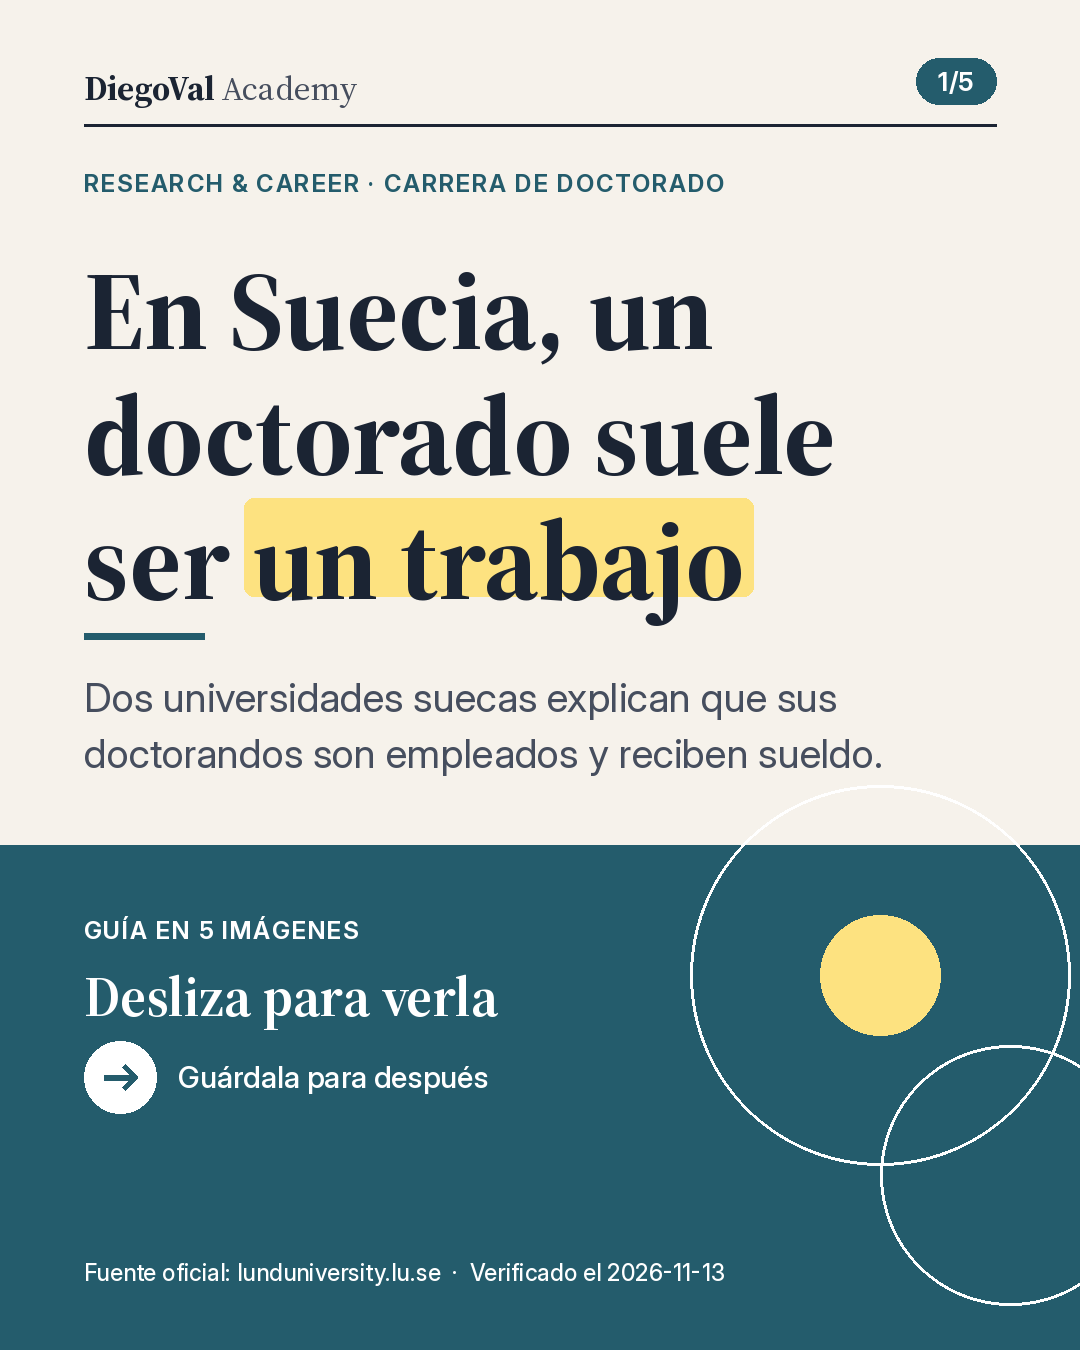
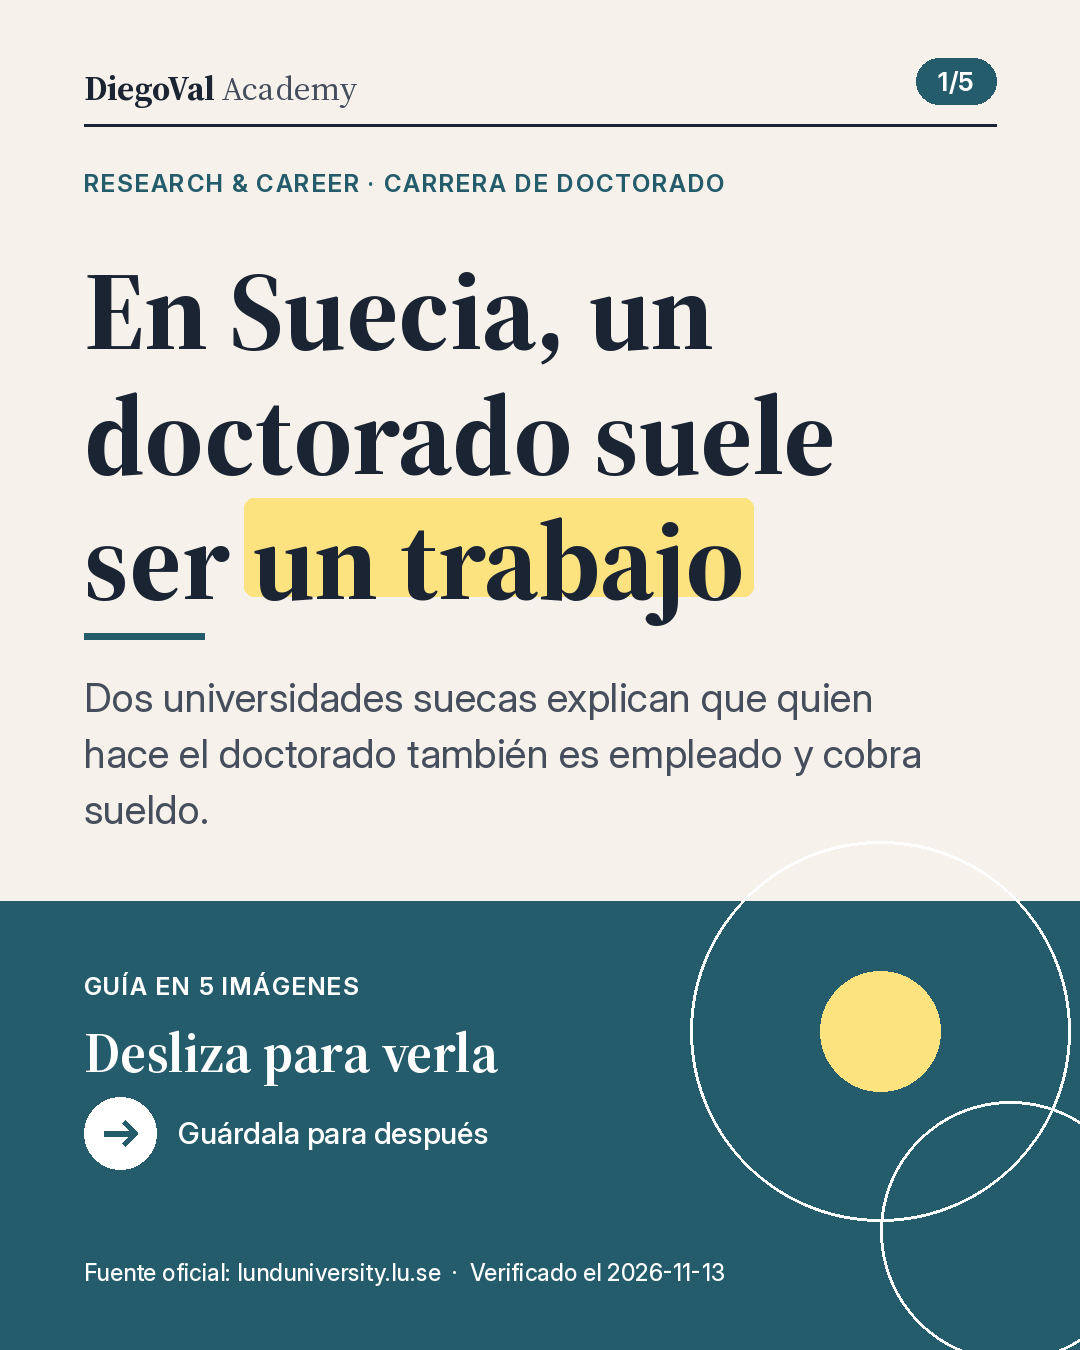
2026-11-13_viernes_doctorado-contrato-suecia: textos más sencillos tras 1.ª verificación
Claude-Session: https://claude.ai/code/session_01HRCw36T8iQCmgJ7ZU8EQuH

diff --git a/posts/2026-11-13_viernes_doctorado-contrato-suecia/sources.md b/posts/2026-11-13_viernes_doctorado-contrato-suecia/sources.md
@@ -4,8 +4,8 @@ Categoría: carrera_phd (última categoría del viernes anterior: tendencia_euro
 | URL | Campo | Cita literal |
 |---|---|---|
 | https://www.lunduniversity.lu.se/about-university/work-us/careers-lund-university/employment-doctoral-student | Empleo | "As a doctoral student, you are both an employee and a student." / "you will be employed by the University and formally admitted to doctoral studies with salary and benefits." (actualizada 29 Aug 2026) |
-| mismo | Beneficios | "Paid vacation…"; "Healthcare and occupational health services…"; "Insurance and pensions: You are covered by staff insurance and pension contributions" |
-| https://www.lunduniversity.lu.se/international-admissions/phd-studies | Beca y solicitud | "you will in most cases be offered employment as a doctoral student as study funding."; "If the doctoral studies are financed by a scholarship, Lund University shall offer…" (mayormente en cooperación internacional); "To apply for a doctoral position, you must create an account in the recruitment system Varbi."; sin matrícula (actualizada 28 Apr 2026) |
+| mismo | Beneficios | "entitled to paid holiday each year"; "public healthcare and occupational health support"; "staff insurance and pension contributions" |
+| https://www.lunduniversity.lu.se/international-admissions/phd-studies | Beca y solicitud | "you will in most cases be offered employment as a doctoral student as study funding."; "If the doctoral studies are financed by a scholarship, Lund University shall offer…" ; "Scholarship as a means of financing studies are mainly used in international co-operation."; "To apply for a doctoral position, you must create an account in the recruitment system Varbi."; sin matrícula (actualizada 28 Apr 2026) |
 | https://su.se/english/education/top-reasons-to-choose-su/our-courses-and-programmes/phd-studies-at-stockholm-university-1.690164 | Estocolmo | "Doctoral students are employees at SU and receive salary and other standard benefits of employment."; "There are no tuition fees for doctoral education in Sweden"; "PhD positions are posted alongside other jobs on our website and applications are made for specific positions."; "usually an opportunity to apply for doctoral studies both in the autumn and spring." (actualizada 2026-07-03) |
 
 Notas: no se citan cifras de sueldo (varían y las fuentes consultadas son secundarias). El texto afirma solo lo que dicen estas dos universidades; cada universidad decide sus reglas. «Mayormente cooperación internacional» es la descripción de Lund sobre las becas.

diff --git a/posts/2026-11-13_viernes_doctorado-contrato-suecia/caption.md b/posts/2026-11-13_viernes_doctorado-contrato-suecia/caption.md
@@ -1,16 +1,16 @@
-¿Sabías que en Suecia un doctorado suele ser un trabajo con sueldo? 🇸🇪
+¿Sabías que en Suecia un doctorado suele ser un trabajo con sueldo?
 
 En corto:
-• Qué es: un doctorado son años de investigación sobre un tema, que terminan en una tesis. En Suecia, la Universidad de Lund dice: «eres a la vez empleado y estudiante».
-• Qué ofrece: sueldo y beneficios de empleado, como vacaciones pagadas, atención médica y pensión. La Universidad de Estocolmo explica que no hay matrícula para el doctorado en Suecia.
-• Cómo se pide: cada plaza se publica junto a otros empleos y se solicita una plaza concreta.
+• Qué es: un doctorado son años de investigación sobre un tema, que terminan en una tesis (un trabajo largo con tus resultados). La Universidad de Lund (Suecia) dice: «eres a la vez empleado y estudiante».
+• Qué ofrece: sueldo y beneficios (vacaciones pagadas, atención médica, pensión). La Universidad de Estocolmo explica que no hay matrícula (lo que se paga por estudiar) en el doctorado.
+• Cómo se pide: cada plaza se publica junto a otros empleos y se pide una plaza concreta.
 
-Lo que pocos explican: algunos doctorados se pagan con una beca (scholarship) y no con un contrato. Lund lo usa, en especial, en proyectos con otros países. Mira cuál es y pregunta qué cubre antes de aceptar.
+Lo que pocos explican: algunos doctorados son con beca (scholarship), no con contrato. Lund las usa en proyectos con otros países. Pregunta si incluye sueldo, seguro y vacaciones.
 
 Cómo empezar:
 1. Abre la web de una universidad sueca y busca sus plazas de doctorado.
-2. En la oferta, busca si dice «employment» (contrato) o «scholarship» (beca).
-3. Anota el tema, el plazo y los documentos que piden.
+2. En la oferta, mira si dice «employment» (contrato) o «scholarship» (beca).
+3. Anota el tema y el plazo.
 
 Lund: https://www.lunduniversity.lu.se/about-university/work-us/careers-lund-university/employment-doctoral-student
 Estocolmo: https://su.se/english/education/top-reasons-to-choose-su/our-courses-and-programmes/phd-studies-at-stockholm-university-1.690164

diff --git a/posts/2026-11-13_viernes_doctorado-contrato-suecia/validation.md b/posts/2026-11-13_viernes_doctorado-contrato-suecia/validation.md
@@ -1,6 +1,6 @@
 # Validación — 2026-11-13_viernes_doctorado-contrato-suecia
 
-Ejecutado: 2026-11-13T07:08:46+01:00
+Ejecutado: 2026-11-13T07:10:06+01:00
 Decisión: **BLOQUEADA: no publicar**
 
 | Estado | Comprobación | Detalle |
@@ -10,7 +10,7 @@ Decisión: **BLOQUEADA: no publicar**
 | PASS | Imagen | 1080x1350 PNG, 1 archivo (+5 diapositivas de carrusel, ignoradas) |
 | PASS | Canal Buffer | DiegoVal Academy (6ae0bdf22f1f5ed648eb92f9) |
 | PASS | Verificación del día | 2026-11-13 |
-| PASS | Longitud del texto | 1282/1300 caracteres |
+| PASS | Longitud del texto | 1256/1300 caracteres |
 | PASS | Fecha visible en el texto | Verificado el: 2026-11-13 |
 | PASS | Marcadores pendientes | ninguno |
 | PASS | Enlaces documentados en sources.md | 2 enlaces |

diff --git a/posts/2026-11-13_viernes_doctorado-contrato-suecia/caption_instagram.md b/posts/2026-11-13_viernes_doctorado-contrato-suecia/caption_instagram.md
@@ -1,8 +1,8 @@
 ¿Sabías que en Suecia un doctorado suele ser un trabajo con sueldo? 🇸🇪
 
-✅ Lund: «eres a la vez empleado y estudiante»
-✅ Estocolmo: no hay matrícula para el doctorado en Suecia
-✅ Mira si la plaza es con contrato o con beca y qué cubre
+✅ Universidad de Lund (Suecia): «eres a la vez empleado y estudiante»
+✅ Universidad de Estocolmo: no hay matrícula (lo que se paga por estudiar)
+✅ Mira si la plaza es con contrato o con beca, y si incluye sueldo, seguro y vacaciones
 
 Esta semana: abre la web de una universidad sueca y busca sus plazas de doctorado. Información oficial en lunduniversity.lu.se
 
